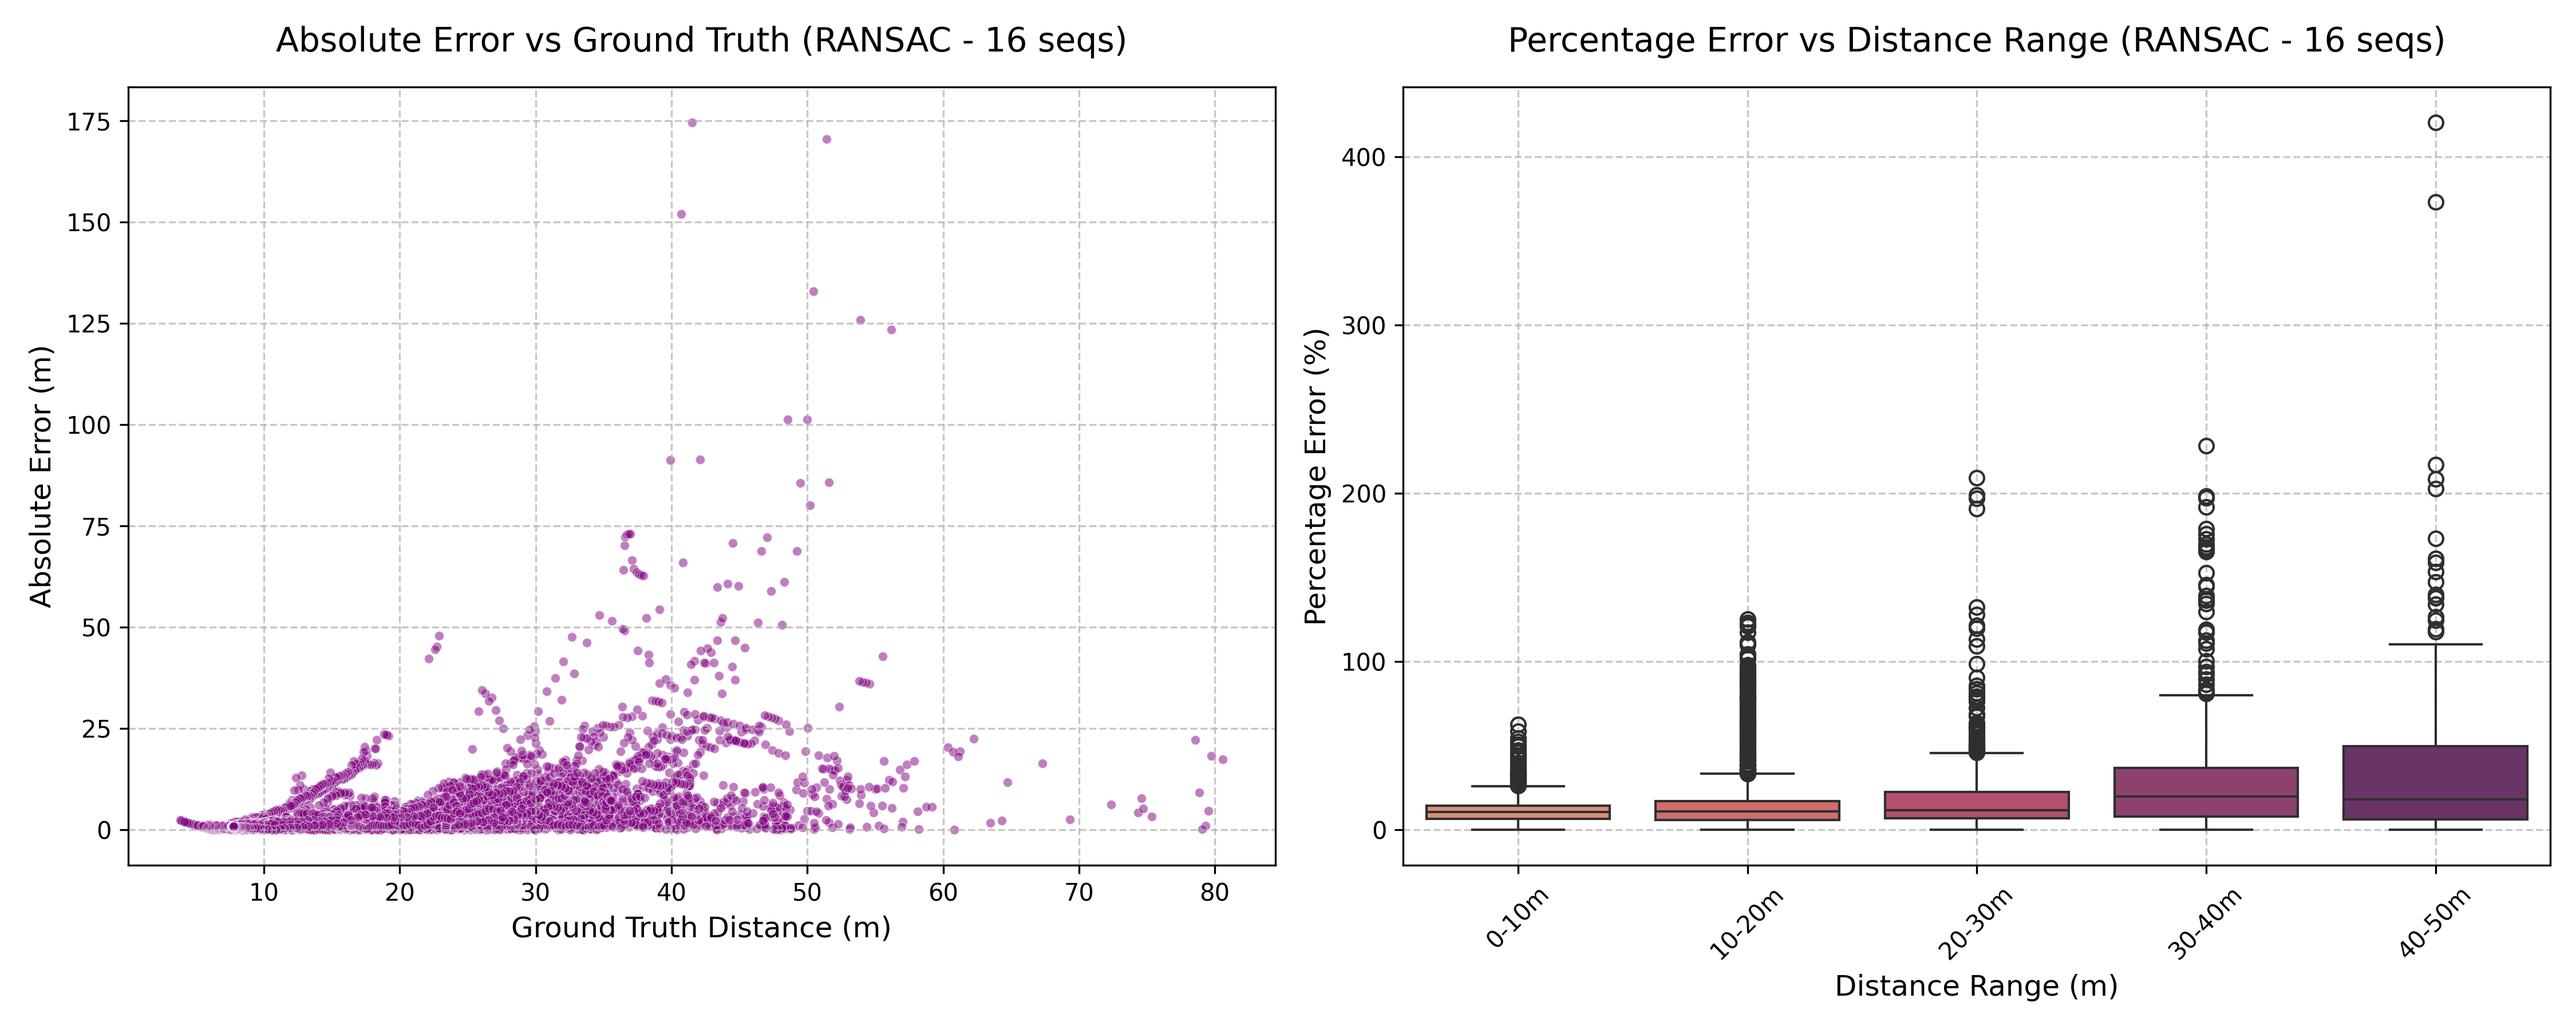
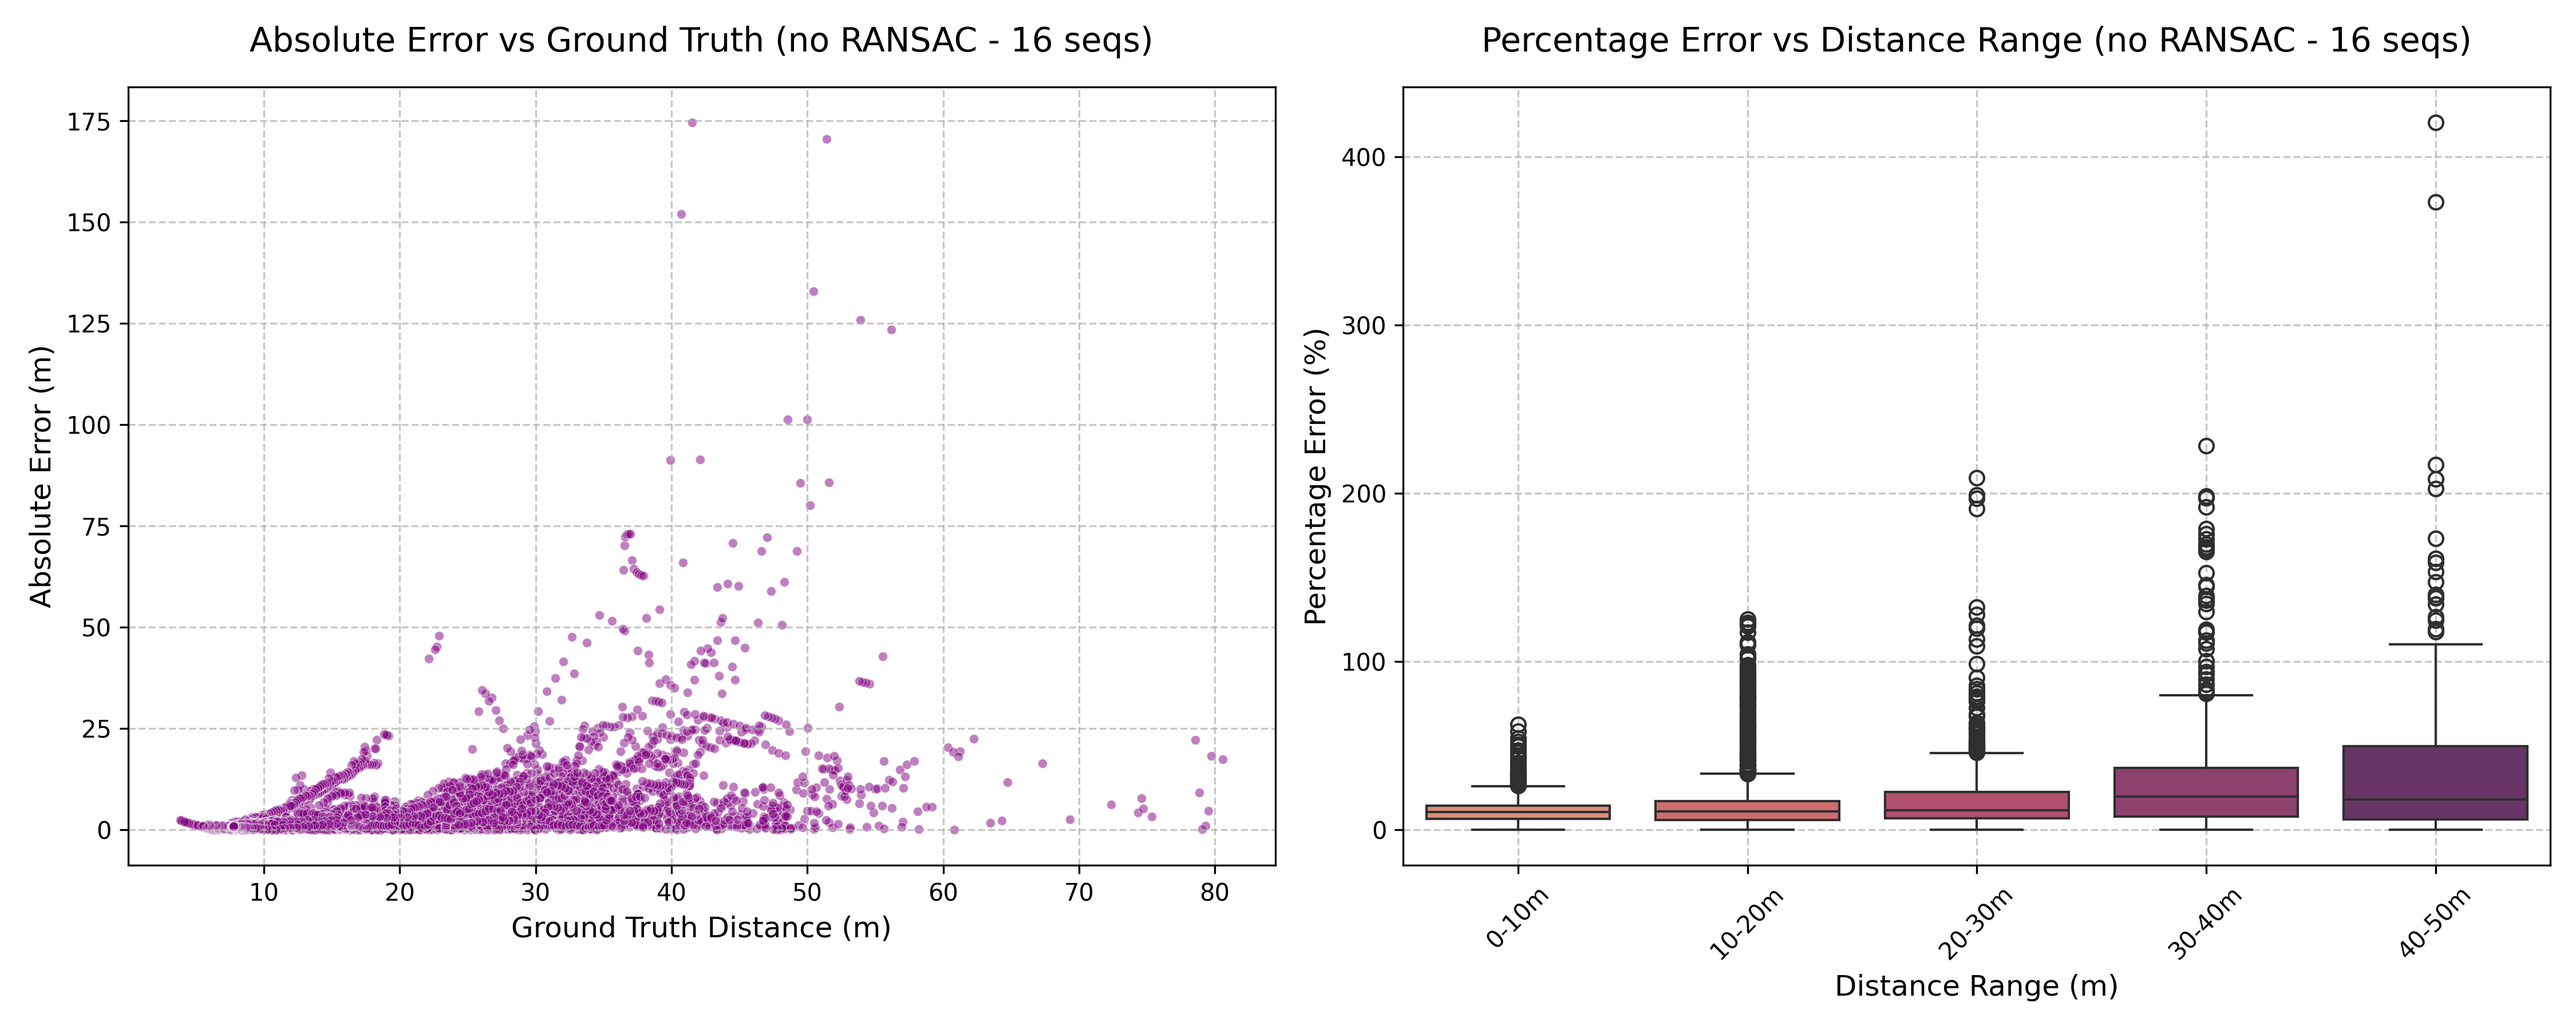
docs: statistic

Changed region(s): [[0.56, 0.0311, 0.9644, 0.0622], [0.0933, 0.0311, 0.4667, 0.0622]]

diff --git a/vebieudo_thongke.py b/vebieudo_thongke.py
@@ -100,7 +100,7 @@ plt.figure(figsize=(15, 6)) # Kích thước khung hình (rộng x cao)
 plt.subplot(1, 2, 1)
 # s=15 là kích thước hạt, alpha=0.5 là độ trong suốt giúp nhìn rõ vùng dày đặc
 sns.scatterplot(data=df, x='dist_gt', y='abs_error', alpha=0.5, color='purple', s=15)
-plt.title('Absolute Error vs Ground Truth (RANSAC - 16 seqs)', fontsize=14, pad=15)
+plt.title('Absolute Error vs Ground Truth (no RANSAC - 16 seqs)', fontsize=14, pad=15)
 plt.xlabel('Ground Truth Distance (m)', fontsize=12)
 plt.ylabel('Absolute Error (m)', fontsize=12)
 plt.grid(True, linestyle='--', alpha=0.7)
@@ -109,7 +109,7 @@ plt.grid(True, linestyle='--', alpha=0.7)
 plt.subplot(1, 2, 2)
 # palette 'flare' tạo màu gradient từ cam sang tím khá bắt mắt
 sns.boxplot(data=df, x='dist_bin', y='error_pct', palette='flare')
-plt.title('Percentage Error vs Distance Range (RANSAC - 16 seqs)', fontsize=14, pad=15)
+plt.title('Percentage Error vs Distance Range (no RANSAC - 16 seqs)', fontsize=14, pad=15)
 plt.xlabel('Distance Range (m)', fontsize=12)
 plt.ylabel('Percentage Error (%)', fontsize=12)
 plt.grid(True, linestyle='--', alpha=0.7)
